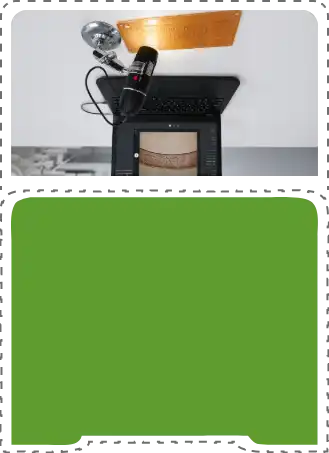
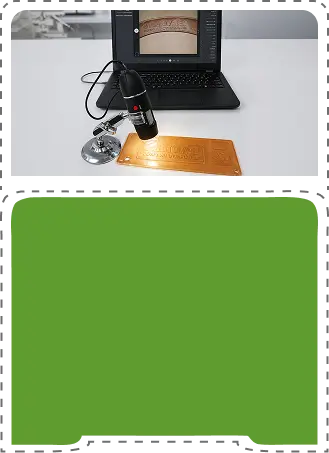
style ajustes en slide grabados

diff --git a/widgets/productos-interactivos/productos-interactivos.css b/widgets/productos-interactivos/productos-interactivos.css
@@ -2880,8 +2880,8 @@
 /* Green card style */
 #gpk-products-widget .grabados-green-card {
     position: absolute;
-    width: 280px;
-    height: 390px;
+    width: 320px;
+    height: 440px;
     background-color: transparent;
     background-size: 100% 100%;
     background-repeat: no-repeat;
@@ -2933,18 +2933,18 @@
 
 /* Coordinates, height, padding alignment and background image for each card */
 #gpk-products-widget .grabados-green-card[data-index="1"] {
-    left: 120px;
-    top: 320px;
-    height: 390px;
+    left: 100px;
+    top: 290px;
+    height: 440px;
     background-image: url('widgets/productos-interactivos/images/slide-grabados/grabados 01.webp');
     justify-content: flex-start;
     padding: 0;
 }
 
 #gpk-products-widget .grabados-green-card[data-index="2"] {
-    left: 530px;
-    top: 440px;
-    height: 390px;
+    left: 520px;
+    top: 365px;
+    height: 440px;
     background-image: url('widgets/productos-interactivos/images/slide-grabados/grabados 02.webp');
     justify-content: flex-end;
     padding: 0;
@@ -2952,17 +2952,17 @@
 
 #gpk-products-widget .grabados-green-card[data-index="3"] {
     left: 940px;
-    top: 320px;
-    height: 390px;
+    top: 290px;
+    height: 440px;
     background-image: url('widgets/productos-interactivos/images/slide-grabados/grabados 03.webp');
     justify-content: flex-start;
     padding: 0;
 }
 
 #gpk-products-widget .grabados-green-card[data-index="4"] {
-    left: 1350px;
-    top: 440px;
-    height: 390px;
+    left: 1360px;
+    top: 365px;
+    height: 440px;
     background-image: url('widgets/productos-interactivos/images/slide-grabados/grabados 04.webp');
     justify-content: flex-end;
     padding: 0;
@@ -2970,12 +2970,12 @@
 
 #gpk-products-widget .grabados-card-text-wrapper {
     width: 100%;
-    height: 195px;
+    height: 220px;
     display: flex;
     flex-direction: column;
     justify-content: center;
     align-items: center;
-    padding: 0 20px;
+    padding: 0 35px;
     box-sizing: border-box;
 }
 
@@ -2984,8 +2984,8 @@
     font-size: 16px;
     font-weight: 800 !important;
     color: var(--color-white);
-    line-height: 1.2;
-    margin: 0 0 18px 0;
+    line-height: 1.25;
+    margin: 0 0 24px 0;
     text-transform: uppercase;
     letter-spacing: 0.2px;
 }
